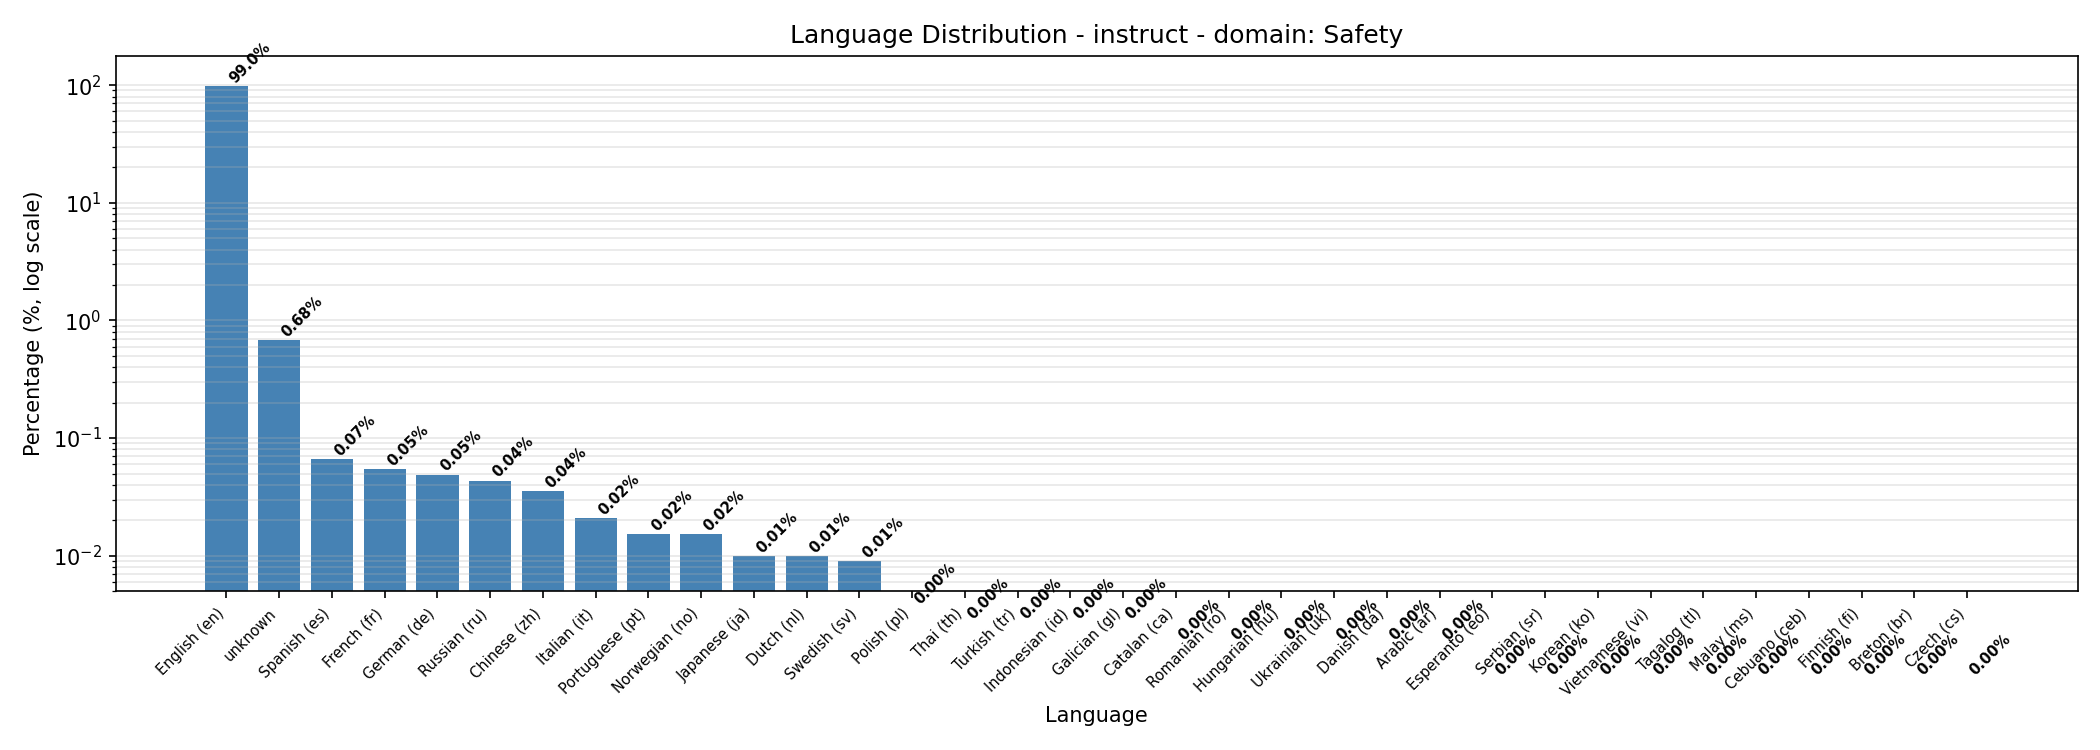
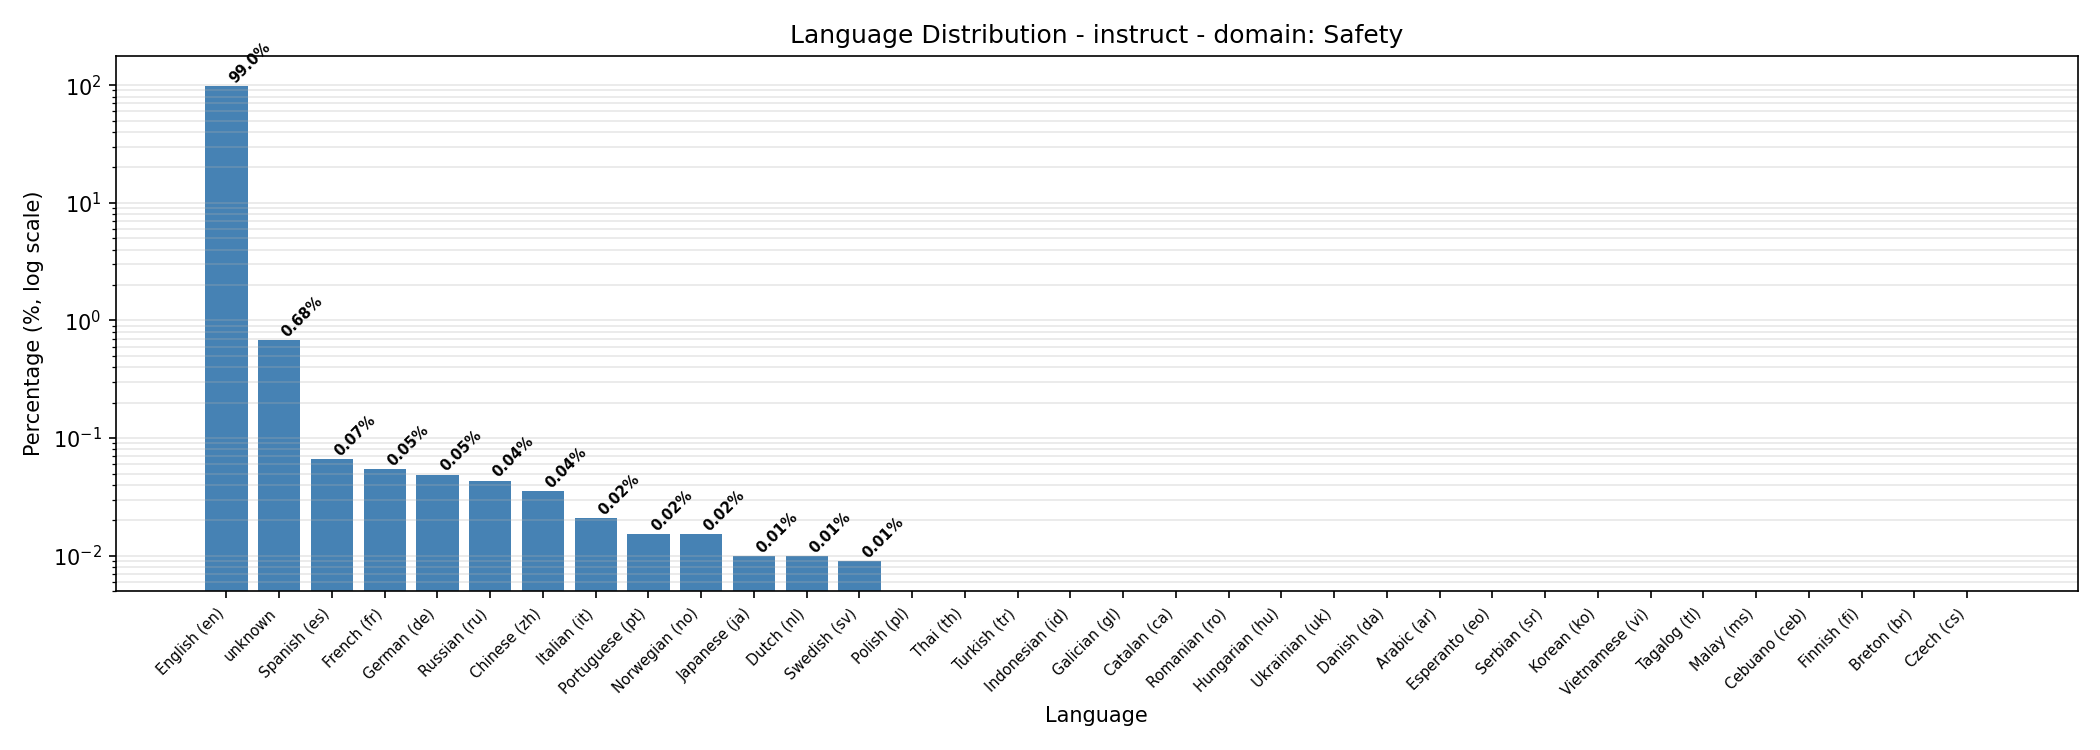
Skip bar labels below y-axis minimum to prevent overlap with x-tick labels

Changed region(s): [[0.4333, 0.7667, 0.7119, 0.8587], [0.7119, 0.8587, 0.9595, 0.8893]]

diff --git a/oellm/analysis/dolci_distribution/detect_language_distribution.py b/oellm/analysis/dolci_distribution/detect_language_distribution.py
@@ -288,14 +288,17 @@ def merge_shard_results(shard_results: list[dict]) -> dict:
     }
 
 
-def _add_bar_labels(ax, bars, pcts):
-    """Add percentage labels on top of bars."""
+def _add_bar_labels(ax, bars, pcts, min_y=None):
+    """Add percentage labels on top of bars. Skip labels below min_y."""
     for bar, pct in zip(bars, pcts):
         if pct > 0:
+            top = bar.get_y() + bar.get_height()
+            if min_y is not None and top < min_y:
+                continue
             label = f"{pct:.1f}%" if pct >= 1 else f"{pct:.2f}%"
             ax.text(
                 bar.get_x() + bar.get_width() / 2,
-                bar.get_y() + bar.get_height(),
+                top,
                 label,
                 ha="left",
                 va="bottom",
@@ -473,16 +476,17 @@ def plot_per_group_distribution(
         langs = [item[0] for item in top_items]
         pcts = [item[1] / total * 100 for item in top_items]
 
+        min_y = 0.005
         fig, ax = plt.subplots(figsize=(14, 5))
         bars = ax.bar(langs, pcts, color="steelblue")
-        _add_bar_labels(ax, bars, pcts)
+        _add_bar_labels(ax, bars, pcts, min_y=min_y)
 
         safe_name = group_name.replace("/", "_").replace(" ", "_")
         ax.set_title(f"Language Distribution - {dataset_name} - {group_type}: {group_name}")
         ax.set_xlabel("Language")
         ax.set_ylabel("Percentage (%, log scale)")
         ax.set_yscale("log")
-        ax.set_ylim(bottom=0.005)
+        ax.set_ylim(bottom=min_y)
         ax.set_xticks(range(len(langs)))
         ax.set_xticklabels([lang_label(l) for l in langs], rotation=45, ha="right", fontsize=7)
         ax.grid(axis="y", alpha=0.3, which="both")
